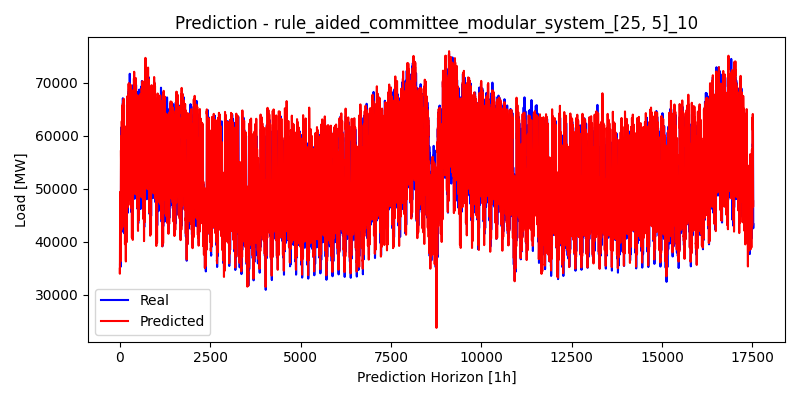
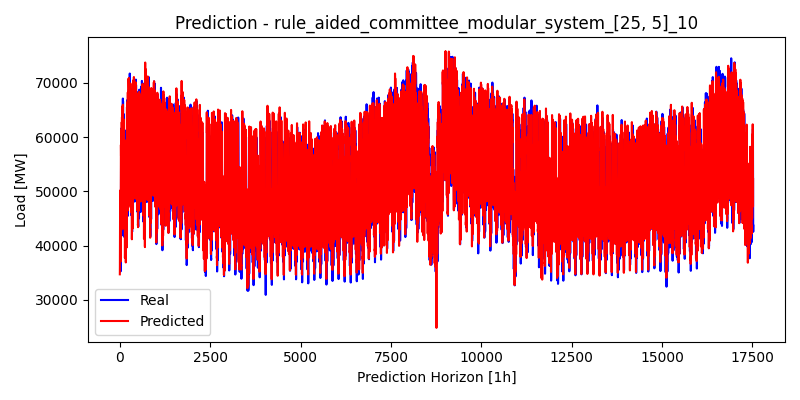
added rule-aided and committee prediction plots

diff --git a/eval/rule_aided/rule_aided_committee_modular_system.py b/eval/rule_aided/rule_aided_committee_modular_system.py
@@ -26,7 +26,7 @@ def prepare_inputs(x: pd.DataFrame):
 
 if __name__ == "__main__":
     PATH = Path(__file__).parent.parent.parent.resolve() / Path('models/rule_aided/models') 
-    MODEL_PATH = PATH / Path('rule_aided_committee_modular_system_[15, 15]_10.keras')
+    MODEL_PATH = PATH / Path('rule_aided_committee_modular_system_[25, 5]_10.keras')
     
     params = DataLoadingParams()
     params.include_timeindex = True
@@ -47,6 +47,22 @@ if __name__ == "__main__":
     
     model_plot_creator = ModelPlotCreator()
     
+    BEST_START = 7
+    
     _, raw_test = load_test_data(params)
-    non_zero_mask = pred[5] != 0.0
-    model_plot_creator.plot_predictions(raw_test['load'].iloc[non_zero_mask], pred[5][non_zero_mask], MODEL_NAME, 'rule_aided_committee_modular_system', "1h")
+    non_zero_mask = pred[BEST_START] != 0.0
+    
+    model_plot_creator.plot_predictions(raw_test['load'].iloc[non_zero_mask].iloc[0:24].to_numpy(), pred[BEST_START][non_zero_mask][0:24], f'{MODEL_NAME}-Ex1', 'rule_aided_committee_modular_system', "1h")
+    model_plot_creator.plot_predictions(raw_test['load'].iloc[non_zero_mask].iloc[1000:1024].to_numpy(), pred[BEST_START][non_zero_mask][1000:1024], f'{MODEL_NAME}-Ex2', 'rule_aided_committee_modular_system', "1h")
+    model_plot_creator.plot_predictions(raw_test['load'].iloc[non_zero_mask].iloc[500:524].to_numpy(), pred[BEST_START][non_zero_mask][500:524], f'{MODEL_NAME}-Ex3', 'rule_aided_committee_modular_system', "1h")
+    
+    horizon_indices = {i: range(i, len(raw_test['load'].iloc[non_zero_mask]), 24) for i in range(24)}
+    
+    horizon_mapes = [
+        mean_absolute_percentage_error(raw_test['load'].iloc[non_zero_mask].iloc[horizon_indices[i]], pred[BEST_START][non_zero_mask][horizon_indices[i]])
+        for i in range(24)
+    ]
+    
+    model_plot_creator.plot_mape_over_horizon(MODEL_NAME, horizon_mapes, "rule_aided_committee_modular_system")
+    
+    

diff --git a/eval/committee/committee_modular_system.py b/eval/committee/committee_modular_system.py
@@ -44,6 +44,20 @@ if __name__ == "__main__":
     
     model_plot_creator = ModelPlotCreator()
     
+    BEST_START = 7
+    
     _, raw_test = load_test_data(params)
-    non_zero_mask = pred[5] != 0.0
-    model_plot_creator.plot_predictions(raw_test['load'].iloc[non_zero_mask], pred[5][non_zero_mask], MODEL_NAME, 'committee_modular_system', "1h")
+    non_zero_mask = pred[BEST_START] != 0.0
+    
+    model_plot_creator.plot_predictions(raw_test['load'].iloc[non_zero_mask].iloc[0:24].to_numpy(), pred[BEST_START][non_zero_mask][0:24], f'{MODEL_NAME}-Ex1', 'committee_modular_system', "1h")
+    model_plot_creator.plot_predictions(raw_test['load'].iloc[non_zero_mask].iloc[1000:1024].to_numpy(), pred[BEST_START][non_zero_mask][1000:1024], f'{MODEL_NAME}-Ex2', 'committee_modular_system', "1h")
+    model_plot_creator.plot_predictions(raw_test['load'].iloc[non_zero_mask].iloc[500:524].to_numpy(), pred[BEST_START][non_zero_mask][500:524], f'{MODEL_NAME}-Ex3', 'committee_modular_system', "1h")
+    
+    horizon_indices = {i: range(i, len(raw_test['load'].iloc[non_zero_mask]), 24) for i in range(24)}
+    
+    horizon_mapes = [
+        mean_absolute_percentage_error(raw_test['load'].iloc[non_zero_mask].iloc[horizon_indices[i]], pred[BEST_START][non_zero_mask][horizon_indices[i]])
+        for i in range(24)
+    ]
+    
+    model_plot_creator.plot_mape_over_horizon(MODEL_NAME, horizon_mapes, "committee_modular_system")

diff --git a/models/rule_aided/rule_aided_committee_modular_system.py b/models/rule_aided/rule_aided_committee_modular_system.py
@@ -58,7 +58,7 @@ def train_rule_aided_model(model_to_wrap: keras.Model, training_data: DataFrame)
 
 if __name__ == "__main__":
     MODEL_STRUCTURE = {
-        'hidden_layers': [15, 15],
+        'hidden_layers': [25, 5],
         'n_models': 10,
     }
     
